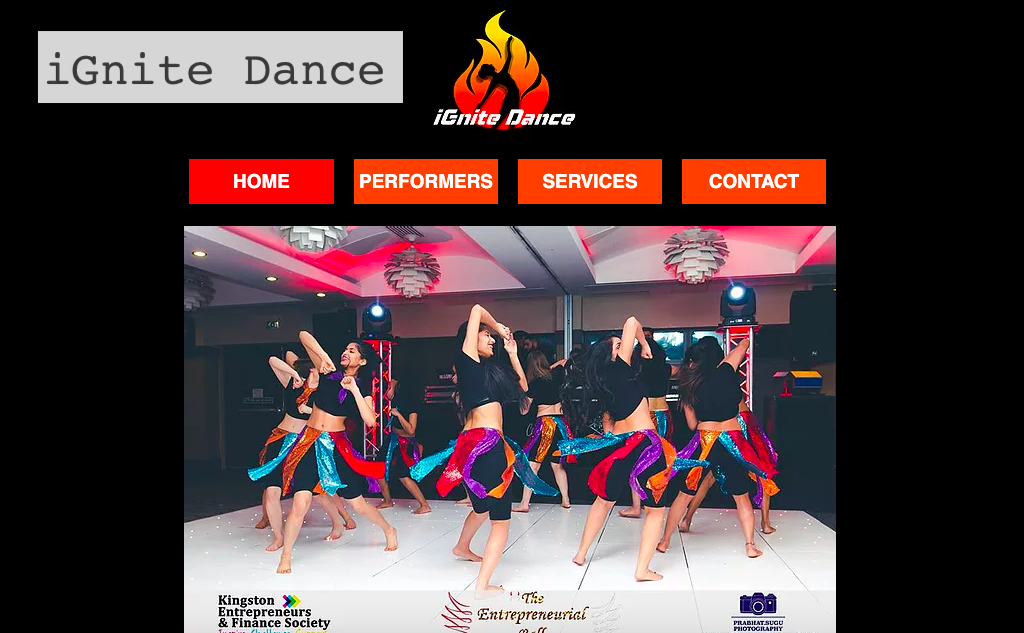
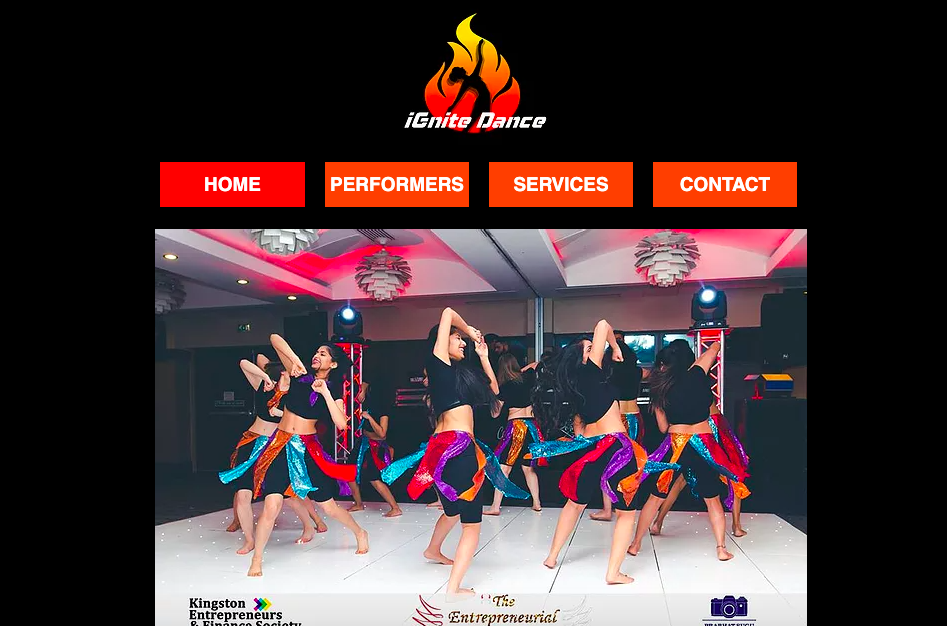
added modals to about projects

diff --git a/src/Projects/BestFlowers/BestFlowers.jsx b/src/Projects/BestFlowers/BestFlowers.jsx
@@ -1,16 +1,56 @@
 import React from "react"
-import coverImg from "./CoverPic.png"
+import coverImg from "./bf-web.gif"
+import { Modal } from "react-bootstrap"
 
 export default class BestFlowers extends React.Component {
+    constructor() {
+        super();
+        this.state = {
+            show: false
+        }
+    }
+    
     render() {
         return (
             <div>
-                <img className="cover-img" src={coverImg} />
+                <h3>best flowers.</h3>
+                <img 
+                onClick={() => this.setState({show : true})}
+                className="cover-img" 
+                src={coverImg} 
+                alt="best flowers home page"/>
                 <br />
                 <a target="_blank" href="https://rebeccajstaple734118865.wordpress.com/">
                 <button className="view-web-btn" type="button" >View Website</button>
                 </a>
-                
+                <Modal
+                    show={this.state.show}
+                    onHide={() => this.setState({ show: false })}
+                    
+
+                >
+                    <Modal.Header closeButton>
+                        <Modal.Title className="modal-styling">
+                            Best Flowers
+                  </Modal.Title>
+                    </Modal.Header>
+                    <Modal.Body className="modal-styling">
+                        <h5>tech used</h5>
+                        <ul>
+                            <li>wordpress</li>
+                        </ul>
+                        <p>
+                            
+                            Plenty of picutes of flowers captures the customer's attention:
+                            they need to quickly be able to imagine the plants in their own home 
+                            so that they are more likely to buy the plants. Website is easy to 
+                            navigate and customers can get straight to browsing plants, which 
+                            is most likely the reason for their visit.
+                      </p>
+                    </Modal.Body>
+                </Modal>
+
+
             </div>
         )
     }

diff --git a/src/Projects/iGnite/Ignite.jsx b/src/Projects/iGnite/Ignite.jsx
@@ -1,16 +1,59 @@
 import React from "react"
-import coverImg from "./ig1.png"
+import coverImg from "./ig-web.gif"
+import { Modal } from "react-bootstrap"
 
 export default class Ignite extends React.Component {
+    constructor() {
+        super();
+        this.state = {
+            show: false
+        }
+    }
+
+
+
     render() {
         return (
             <div>
-                <img className="cover-img" src={coverImg} />
+                <h3>ignite.</h3>
+                <img
+                    onClick={() => this.setState({ show: true })}
+                    className="cover-img"
+                    src={coverImg}
+                    alt="ignite website home page" />
                 <br />
                 <a target="_blank" href="https://petitebeccas.wixsite.com/ignite">
-                <button className="view-web-btn" type="button" >view website</button>
+                    <button className="view-web-btn" type="button" >view website</button>
                 </a>
+
                 
+
+                <Modal
+                    show={this.state.show}
+                    onHide={() => this.setState({ show: false })}
+                    
+
+                >
+                    <Modal.Header closeButton>
+                        <Modal.Title className="modal-styling">
+                            iGnite Dance
+                  </Modal.Title>
+                    </Modal.Header>
+                    <Modal.Body className="modal-styling">
+                        <h5>tech used</h5>
+                        <ul>
+                            <li>wix.com</li>
+                        </ul>
+                        <p>It was important that I used tehcnology that the owner
+                        could login to and change herself as info in her company
+                        was changing regularly. Her company is very firely and punchy
+                        so the design needed to reflect that.
+                      </p>
+                    </Modal.Body>
+                </Modal>
+
+
+
             </div>
         )
     }

diff --git a/src/App.css b/src/App.css
@@ -1,13 +1,5 @@
-@import url('https://fonts.googleapis.com/css2?family=Arvo&display=swap');
-@import url('https://fonts.googleapis.com/css2?family=Source+Serif+Pro&display=swap');
 @import url('https://fonts.googleapis.com/css2?family=Courier+Prime&display=swap');
 
-/*font
-font-family: 'Source Serif Pro', serif;
-font-family: 'Courier Prime', monospace;
-font-family: 'Source Serif Pro', serif;
-
-*/
 
 .App {
   background-color: white;
@@ -51,10 +43,12 @@ body {
 
 .intro-p {
   width: 60%;
+  margin: 40px 0 10px 50px;
 }
 
 .about-my-work {
   width: 60%;
+  margin: 40px 0 10px 50px;
 }
 
 .project-section {
@@ -127,23 +121,26 @@ body {
 
 .proj-text {
   width: 60%;
+  margin: 40px 0 10px 50px;
 }
 
 .proj-disclosure {
   width: 60%;
   font-size: smaller;
   font-style: italic;
+  margin: 10px 0 10px 50px;
 }
 
 .cover-img {
   border-radius: 5px;
   width: 60%;
   box-shadow: 0px 5px  15px rgba(0, 0, 0, 0.4);
-  margin: 30px 0 10px 0;
+  margin: 10px 0 10px 0;
 }
 
 .cover-img:hover {
   width: 62%;
+  cursor: pointer;
 }
 
 .view-web-btn {
@@ -153,7 +150,7 @@ body {
   box-shadow: 0px 5px  15px rgba(0, 0, 0, 0.4);
   border-radius: 5px;
   padding: 5px;
-  margin: 10px 0 20px 0;
+  margin: 10px 0 50px 0;
   background-color: #fafafa;
   color: #0e9aa7;
 
@@ -195,4 +192,25 @@ body {
 
 #hello {
   color: #bb3b0e;
+}
+
+.tech-section {
+  margin: 40px 0 10px 50px;
+}
+
+.contact-div {
+  margin: 40px 0 10px 50px;
+}
+
+.modal-dialogue {
+  max-width: auto;
+}
+
+.modal-styling {
+  font-family: 'Courier Prime', monospace;
+
+}
+
+.modal-content {
+  border-radius: 2px;
 }

diff --git a/src/Projects/iGnite/IgniteModal.jsx b/src/Projects/iGnite/IgniteModal.jsx
@@ -1,0 +1,46 @@
+import React from "react"
+import { Button, Modal } from "react-bootstrap"
+import Gif from "./ig-web.gif"
+
+
+export default class IgniteModal extends React.Component {
+    constructor(props) {
+        super(props);
+        this.state = {
+            show: false
+        }
+    }
+
+    render() {
+        return (
+            <>
+                <Modal
+                    show={this.props.show}
+                    onHide={() => this.setState({show : false})}
+
+                >
+                    <Modal.Header closeButton>
+                        <Modal.Title className="modal-styling">
+                            iGnite Dance
+                  </Modal.Title>
+                    </Modal.Header>
+                    <Modal.Body className="modal-styling">
+                        <h5>Tech Stack</h5>
+                        <ul>
+                            <li>Wix.com</li>
+                        </ul>
+                        <p>It was important that I used tehcnology that the owner
+                        could login to and change herself as info in her company
+                        was changing regularly. Her company is very firely and punchy
+                        so the design needed to reflect that.
+                      </p>
+                    </Modal.Body>
+                </Modal>
+            </>
+        );
+    }
+
+
+}
+
+

diff --git a/src/PageComponents/AboutMe.jsx b/src/PageComponents/AboutMe.jsx
@@ -7,8 +7,9 @@ export default class AboutMe extends React.Component {
         return (
             <div>
                 <p className="intro-p">
-                    I turned around a said "Sayonara" to my dance career, 
-                    whilst simultaniously <span id="console">console</span>.<span id="log">log</span><span id="ging">/*ging*/</span>(<span id="hello">"Bonjour le Monde!"</span>); to the wonderful world of tech.
+                    I turned around and said "Sayonara" to my dance career, 
+                    whilst simultaniously <span id="console">console</span>.<span id="log">log</span><span id="ging">/*ging*/</span>(<span id="hello">"Bonjour le Monde!"</span>); 
+                    to the wonderful world of tech.
                 </p>
                 
 

diff --git a/src/Pages/TechPage.jsx b/src/Pages/TechPage.jsx
@@ -11,14 +11,14 @@ export default class TechPage extends React.Component {
     
     render() {
         return (
-            <div>
-                <h2>Languages:</h2>
+            <div className="tech-section">
+                <h3>Languages:</h3>
                 <LanguageList />
-                <h2>Frameworks / Libraries:</h2>
+                <h3>Frameworks / Libraries:</h3>
                 <FrameworkList />
-                <h2>Testing Frameworks:</h2>
+                <h3>Testing Frameworks:</h3>
                 <TestingList />
-                <h2>Other:</h2>
+                <h3>Other:</h3>
                 <OtherList />
             </div>
         )

diff --git a/src/PageComponents/ProjectIntro.jsx b/src/PageComponents/ProjectIntro.jsx
@@ -4,7 +4,7 @@ export default class ProjectIntro extends React.Component {
     render() {
         return (
             <div>
-                <p>
+                <p className="proj-text">
                     Design is a huge part of my life and my design preferences are a vast spectrum
                     from black & white to neon colours or Quirky to Classic. Because of this love for eclectic design
                      I am incredibly versatile and can design a range of websites to suit your business needs.

diff --git a/src/PageComponents/Footer.jsx b/src/PageComponents/Footer.jsx
@@ -8,7 +8,7 @@ export default class Footer extends React.Component {
                 <hr id="footer-line"/>
                 <Socials/>
                 <p className="full-disclosure">
-                    (Full disclosure: I am neither Japanese or French - just apologetically English)
+                    website built by rebecca staple 
                 </p>
             </div>
         )

diff --git a/src/PageComponents/Tech.jsx b/src/PageComponents/Tech.jsx
@@ -5,12 +5,7 @@ import TestingList from "./Components/TestingList"
 import OtherList from "./Components/OtherList"
 
 export default class Tech extends React.Component {
-    constructor() {
-        super();
-        this.state = {
-            myTech : []
-        }
-    }
+    
     render() {
         return (
             <div className="tech-section">

diff --git a/src/Pages/ContactPage.jsx b/src/Pages/ContactPage.jsx
@@ -9,7 +9,7 @@ export default class ContactPage extends React.Component {
     render() {
         return (
 
-            <div>
+            <div className="contact-div">
                 <p>So what can a software nerd and Beatles super fan do for you?</p>
 
                 <p>Get in touch and let me know:</p>

diff --git a/src/PageComponents/Components/OtherList.jsx b/src/PageComponents/Components/OtherList.jsx
@@ -11,7 +11,6 @@ export default class OtherlIst extends React.Component {
                     <li>Wix</li>
                     <li>Node</li>
                     <li>Maven</li>
-                    <li>Mocha</li>
                     <li>Git</li>
                     <li>GitHub</li>
                 </ul>
